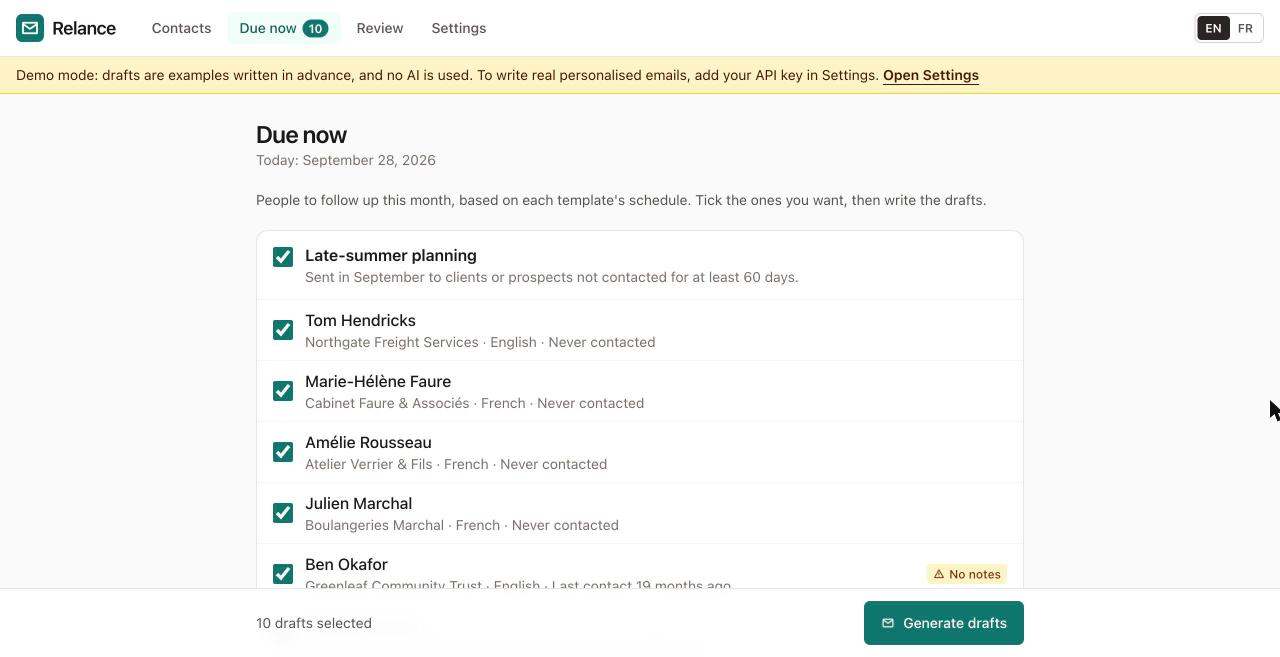
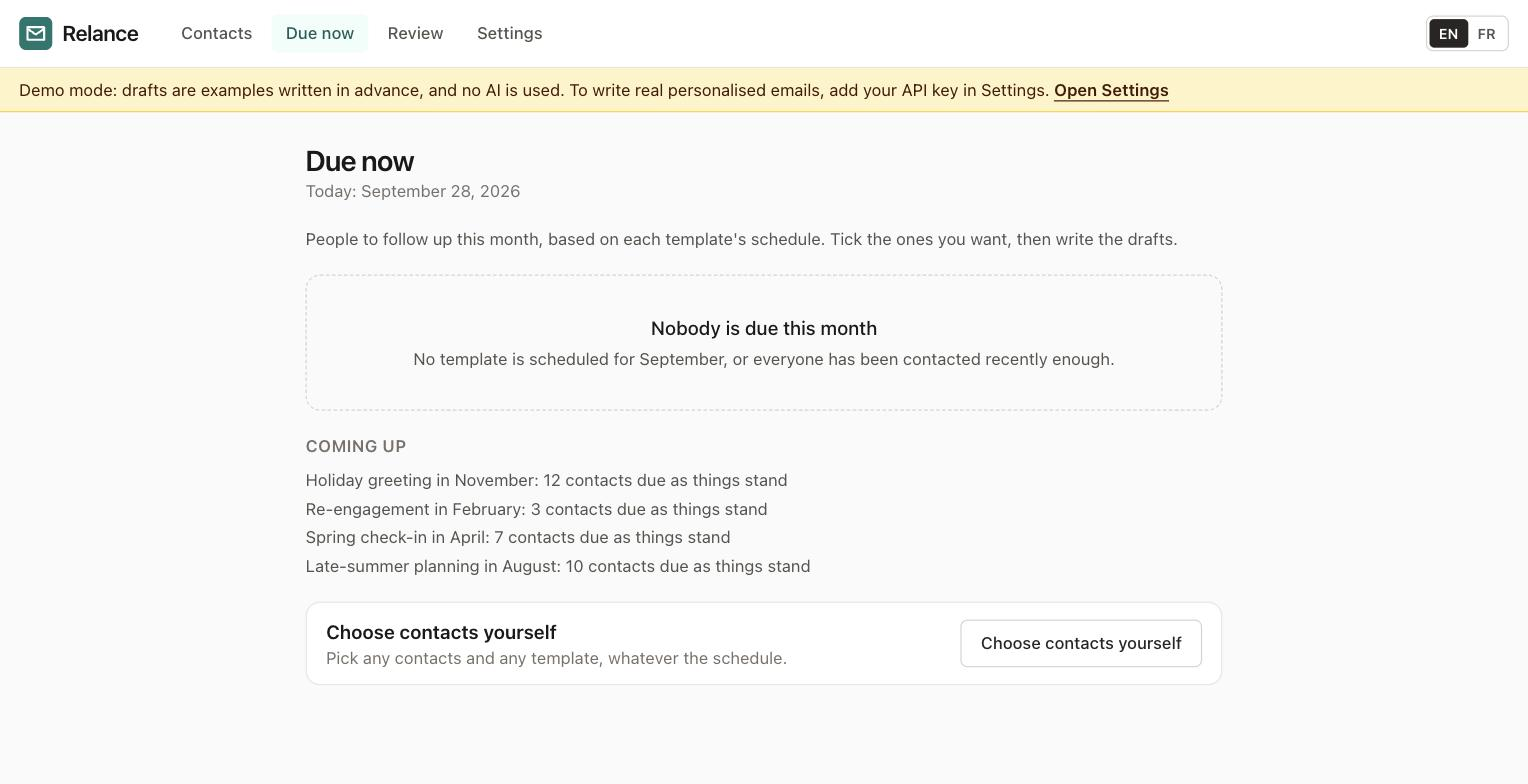
Fix schedule migration for browsers already on v2; refresh screenshots
- The Sep/Dec to Aug/Nov template migration moves to its own schema v3 so
  it also runs where v2 was already applied; tested from v1 and from v2
- Due now and export screenshots retaken for the new months, the unticked
  default and the plain-text option; guides mention both

Claude-Session: https://claude.ai/code/session_019jaghgFYEvTLq4ikrmxA1i

diff --git a/src/db/templates.test.ts b/src/db/templates.test.ts
@@ -36,7 +36,7 @@ describe('templates', () => {
   });
 });
 
-describe('schema upgrade to v2', () => {
+describe('schema upgrade (v3 schedule migration)', () => {
   it('moves unchanged built-in schedules to the new default months, and leaves edits alone', async () => {
     const { default: Dexie } = await import('dexie');
     const name = 'relance-upgrade-test';
@@ -55,5 +55,19 @@ describe('schema upgrade to v2', () => {
     expect(rows['builtin-holiday-fr']).toEqual({ month: 11, minGapDays: 0 });
     expect(rows['builtin-planning-fr']).toEqual({ month: 10, minGapDays: 30 }); // edited by the user: kept
     v2.close();
+  });
+
+  it('also runs for a browser that was already on v2', async () => {
+    const { default: Dexie } = await import('dexie');
+    const name = 'relance-upgrade-from-v2';
+    const old = new Dexie(name);
+    old.version(1).stores({ contacts: 'id', drafts: 'id', templates: 'id, family, language, isBuiltIn', settings: 'id' });
+    old.version(2).stores({ trash: 'id, deletedAt' });
+    await old.table('templates').add({ id: 'builtin-holiday-en', family: 'holiday', isBuiltIn: true, scheduleRule: { month: 12, minGapDays: 0 } });
+    old.close();
+    const { RelanceDB } = await import('./db');
+    const current = new RelanceDB(name);
+    expect((await current.templates.get('builtin-holiday-en'))?.scheduleRule).toEqual({ month: 11, minGapDays: 0 });
+    current.close();
   });
 });

diff --git a/src/db/db.ts b/src/db/db.ts
@@ -19,10 +19,12 @@ export class RelanceDB extends Dexie {
       settings: 'id',
     });
     // v2: deleted contacts are kept 30 days in a table every tab can see.
-    this.version(2)
-      .stores({ trash: 'id, deletedAt' })
+    this.version(2).stores({ trash: 'id, deletedAt' });
+    // v3: new default months (Sep → Aug, Dec → Nov) for built-ins nobody has
+    // changed. Its own version so it also runs for browsers already on v2.
+    this.version(3)
+      .stores({})
       .upgrade((tx) =>
-        // New default months (Sep → Aug, Dec → Nov) for built-ins nobody has changed.
         tx
           .table('templates')
           .toCollection()

diff --git a/docs/getting-started.fr.md b/docs/getting-started.fr.md
@@ -75,7 +75,7 @@ Cet écran propose trois choix.
 ## Partie 5 : Voir qui relancer
 
 1. Cliquez sur **À relancer** en haut de la page.
-2. Lisez la liste. Relance affiche les personnes concernées ce mois-ci par chaque modèle. Tout le monde est coché au départ.
+2. Lisez la liste. Relance affiche les personnes concernées ce mois-ci par chaque modèle. Tout le monde est coché au départ. Si personne n'est concerné, la page l'indique et montre ce qui arrive dans les prochains mois.
 3. Décochez les personnes à qui vous ne voulez pas écrire cette fois-ci.
 
    Si personne n'est à relancer ce mois-ci, ouvrez **Choisir les contacts vous-même** en bas de la page, cochez les personnes voulues et choisissez n'importe quel modèle.
@@ -103,7 +103,7 @@ Cet écran propose trois choix.
 ## Partie 7 : Envoyer vos e-mails
 
 1. Cliquez sur **Exporter les brouillons validés** en bas de la page Relecture.
-2. Laissez **Fichiers e-mail pour Outlook** sélectionné.
+2. Laissez **Fichiers e-mail pour Outlook** sélectionné. (**Fichiers texte** sert de solution de repli si les fichiers e-mail ne s'ouvrent pas correctement.)
 3. Cochez **Indiquer ces contacts comme contactés aujourd'hui** seulement si vous envoyez les e-mails aujourd'hui. Si vous les envoyez un autre jour, laissez la case décochée et indiquez la date ensuite dans la colonne **Dernier contact** de la page Contacts.
 4. Cliquez sur **Télécharger**. Votre navigateur enregistre un fichier .zip, en général dans le dossier **Téléchargements**.
 5. Ouvrez votre dossier **Téléchargements**.

diff --git a/docs/getting-started.md b/docs/getting-started.md
@@ -81,7 +81,7 @@ You have three choices on this screen.
 
    ![Due now](screenshots/due-now.jpg)
 
-2. Read the list. Relance shows the people each template is meant for this month. Everyone is ticked to start with.
+2. Read the list. Relance shows the people each template is meant for this month. Everyone is ticked to start with. If nobody is due, the page says so and lists what is coming up in the next months (as in the picture above).
 3. Untick anyone you don't want to write to this time.
 
    If nobody is due this month, open **Choose contacts yourself** at the bottom of the page, tick the people you want, and pick any template.
@@ -115,7 +115,7 @@ You have three choices on this screen.
 
    ![Exporting](screenshots/export.jpg)
 
-2. Leave **Email files for Outlook** selected.
+2. Leave **Email files for Outlook** selected. (**Plain text files** is there as a fallback if the email files don't open properly.)
 3. Tick **Mark these contacts as contacted today** only if you will send the emails today. If you send them another day, leave it unticked and set the date afterwards in the **Last contacted** column on the Contacts page.
 4. Click **Download**. Your browser saves a .zip file, usually in your **Downloads** folder.
 5. Open your **Downloads** folder.

diff --git a/PROGRESS.md b/PROGRESS.md
@@ -256,8 +256,10 @@ notice and no way back. Code review found more multi-tab hazards of the
 ### 3. Schedule defaults
 - Built-ins now: April (clients), August (clients + prospects), November
   (everyone), February (prospects). Post-event stays manual.
-- Existing browsers: the v2 upgrade moves built-in templates still on the old
-  September/December defaults; templates the user edited are untouched.
+- Existing browsers: a v3 schema upgrade moves built-in templates still on the old
+  September/December defaults; templates the user edited are untouched. (First
+  attached to v2, which missed browsers already upgraded to v2 while testing; moved
+  to its own version, with a test for both starting points.)
 - docs/templates.md (+ .fr): a table of the defaults, stated plainly as a
   starting point, with how to set your own months.
 

diff --git a/CLAUDE.md b/CLAUDE.md
@@ -254,7 +254,7 @@ README notes that swapping models is a one-line change.
   clients; Late-summer planning **August** / 60 days / clients + prospects; Holiday
   greeting **November** / 0 days / everyone; Re-engagement February / 180 days /
   prospects; Post-event: no schedule (manual only). They are a starting point,
-  not advice: docs/templates.md tells users to set their own. The v2 schema
+  not advice: docs/templates.md tells users to set their own. The v3 schema
   upgrade moves unchanged built-ins from Sep/Dec to Aug/Nov; edited ones are kept.
 - **Due only in the rule's month.** Nothing carries over from last month; the
   "Coming up" list shows what the next scheduled templates will catch.
